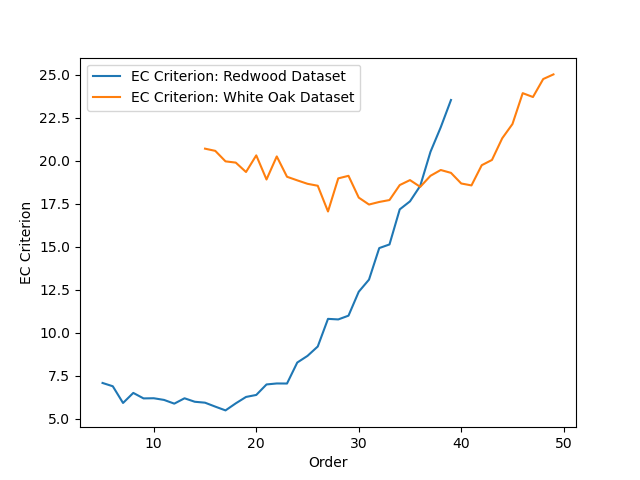
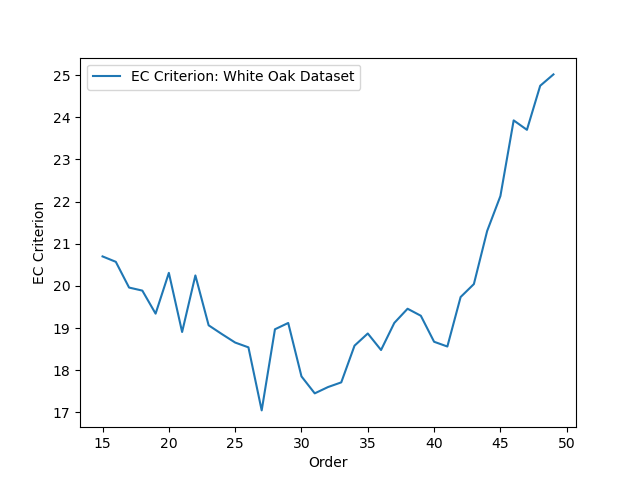
fix mistake on diagram

diff --git a/ec_criterion_diagrams/empirical_coverage.py b/ec_criterion_diagrams/empirical_coverage.py
@@ -419,7 +419,7 @@ if __name__ == "__main__":
         plt.ylabel("EC Criterion")
         plt.legend()
         plt.savefig("~/phd/tex_projects/gcp_icml2024/ec_criterion_redwood.png")
-
+        plt.cla()
         plt.plot(
             range(15, 50),
             ec_criterion_whiteoak,
